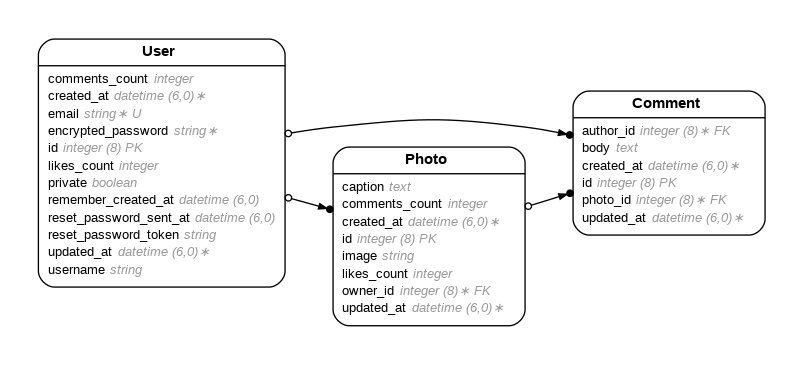
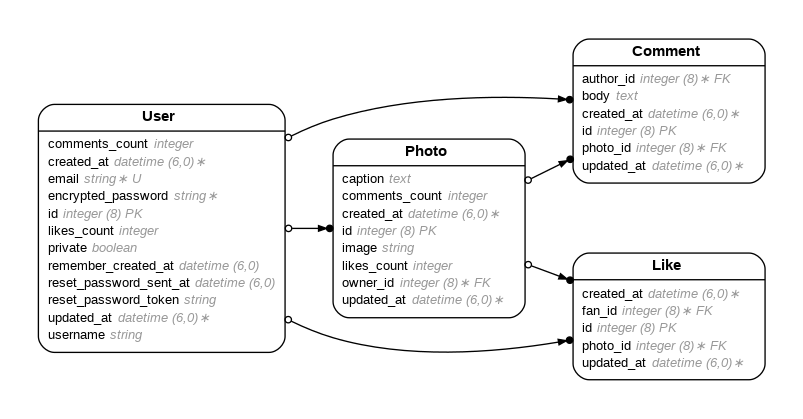
Generated likes

diff --git a/app/controllers/likes_controller.rb b/app/controllers/likes_controller.rb
@@ -1,0 +1,70 @@
+class LikesController < ApplicationController
+  before_action :set_like, only: %i[ show edit update destroy ]
+
+  # GET /likes or /likes.json
+  def index
+    @likes = Like.all
+  end
+
+  # GET /likes/1 or /likes/1.json
+  def show
+  end
+
+  # GET /likes/new
+  def new
+    @like = Like.new
+  end
+
+  # GET /likes/1/edit
+  def edit
+  end
+
+  # POST /likes or /likes.json
+  def create
+    @like = Like.new(like_params)
+
+    respond_to do |format|
+      if @like.save
+        format.html { redirect_to like_url(@like), notice: "Like was successfully created." }
+        format.json { render :show, status: :created, location: @like }
+      else
+        format.html { render :new, status: :unprocessable_entity }
+        format.json { render json: @like.errors, status: :unprocessable_entity }
+      end
+    end
+  end
+
+  # PATCH/PUT /likes/1 or /likes/1.json
+  def update
+    respond_to do |format|
+      if @like.update(like_params)
+        format.html { redirect_to like_url(@like), notice: "Like was successfully updated." }
+        format.json { render :show, status: :ok, location: @like }
+      else
+        format.html { render :edit, status: :unprocessable_entity }
+        format.json { render json: @like.errors, status: :unprocessable_entity }
+      end
+    end
+  end
+
+  # DELETE /likes/1 or /likes/1.json
+  def destroy
+    @like.destroy!
+
+    respond_to do |format|
+      format.html { redirect_to likes_url, notice: "Like was successfully destroyed." }
+      format.json { head :no_content }
+    end
+  end
+
+  private
+    # Use callbacks to share common setup or constraints between actions.
+    def set_like
+      @like = Like.find(params[:id])
+    end
+
+    # Only allow a list of trusted parameters through.
+    def like_params
+      params.require(:like).permit(:fan_id, :photo_id)
+    end
+end

diff --git a/db/schema.rb b/db/schema.rb
@@ -10,7 +10,7 @@
 #
 # It's strongly recommended that you check this file into your version control system.
 
-ActiveRecord::Schema[7.1].define(version: 2025_01_06_194328) do
+ActiveRecord::Schema[7.1].define(version: 2025_01_06_195333) do
   # These are extensions that must be enabled in order to support this database
   enable_extension "citext"
   enable_extension "plpgsql"
@@ -23,6 +23,15 @@ ActiveRecord::Schema[7.1].define(version: 2025_01_06_194328) do
     t.datetime "updated_at", null: false
     t.index ["author_id"], name: "index_comments_on_author_id"
     t.index ["photo_id"], name: "index_comments_on_photo_id"
+  end
+
+  create_table "likes", force: :cascade do |t|
+    t.bigint "fan_id", null: false
+    t.bigint "photo_id", null: false
+    t.datetime "created_at", null: false
+    t.datetime "updated_at", null: false
+    t.index ["fan_id"], name: "index_likes_on_fan_id"
+    t.index ["photo_id"], name: "index_likes_on_photo_id"
   end
 
   create_table "photos", force: :cascade do |t|
@@ -55,5 +64,7 @@ ActiveRecord::Schema[7.1].define(version: 2025_01_06_194328) do
 
   add_foreign_key "comments", "photos"
   add_foreign_key "comments", "users", column: "author_id"
+  add_foreign_key "likes", "photos"
+  add_foreign_key "likes", "users", column: "fan_id"
   add_foreign_key "photos", "users", column: "owner_id"
 end

diff --git a/app/models/like.rb b/app/models/like.rb
@@ -1,0 +1,24 @@
+# == Schema Information
+#
+# Table name: likes
+#
+#  id         :bigint           not null, primary key
+#  created_at :datetime         not null
+#  updated_at :datetime         not null
+#  fan_id     :bigint           not null
+#  photo_id   :bigint           not null
+#
+# Indexes
+#
+#  index_likes_on_fan_id    (fan_id)
+#  index_likes_on_photo_id  (photo_id)
+#
+# Foreign Keys
+#
+#  fk_rails_...  (fan_id => users.id)
+#  fk_rails_...  (photo_id => photos.id)
+#
+class Like < ApplicationRecord
+  belongs_to :fan, class_name: "User"
+  belongs_to :photo, class_name: "Photo"
+end

diff --git a/app/models/user.rb b/app/models/user.rb
@@ -28,4 +28,5 @@ class User < ApplicationRecord
          :recoverable, :rememberable, :validatable
   has_many :own_photos, class_name: "Photo", foreign_key: "owner_id"
   has_many :comments, class_name: "Comment", foreign_key: "author_id"
+  has_many :likes, class_name: "Like", foreign_key: "fan_id"
 end

diff --git a/db/migrate/20250106195333_create_likes.rb b/db/migrate/20250106195333_create_likes.rb
@@ -1,0 +1,10 @@
+class CreateLikes < ActiveRecord::Migration[7.1]
+  def change
+    create_table :likes do |t|
+      t.references :fan, null: false, foreign_key: { to_table: :users }
+      t.references :photo, null: false, foreign_key: { to_table: :photos }
+
+      t.timestamps
+    end
+  end
+end

diff --git a/app/models/photo.rb b/app/models/photo.rb
@@ -22,4 +22,5 @@
 class Photo < ApplicationRecord
   belongs_to :owner, class_name: "User"
   has_many :comments, class_name: "Comment", foreign_key: "photo_id"
+  has_many :likes, class_name: "Like", foreign_key: "photo_id"
 end

diff --git a/config/routes.rb b/config/routes.rb
@@ -1,4 +1,5 @@
 Rails.application.routes.draw do
+  resources :likes
   resources :comments
   resources :photos
   devise_for :users
